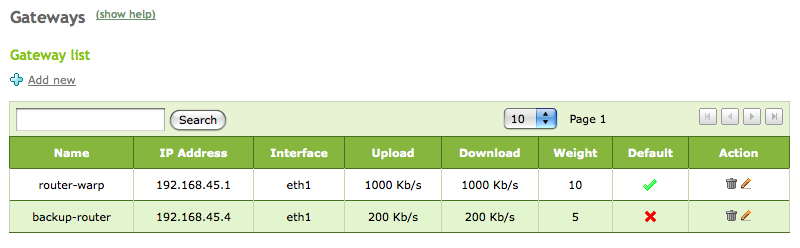
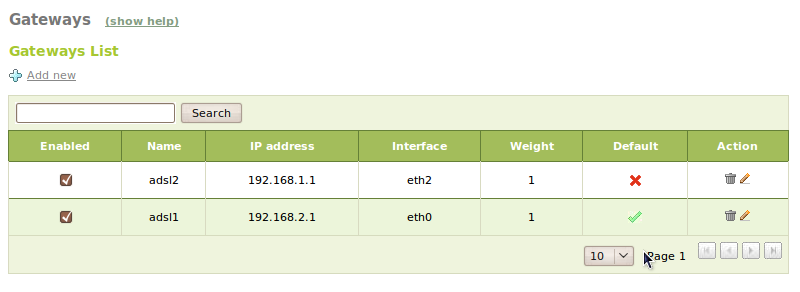
BP: Updating outdated shot and using gateway instead of router and more minor improvements
git-svn-id: http://svn.zentyal.org/zentyal/trunk@17430 866bc4c1-54da-0310-a958-9d5a9a0e8d04

diff --git a/docs/en/user/routing.rst b/docs/en/user/routing.rst
@@ -14,18 +14,18 @@ table with a set of rules to make this decision.
 
 Each of these rules has different fields, although the three most
 important ones are: :guilabel:`destination address`,
-:guilabel:`interface` and :guilabel:`router`. These must be read as
+:guilabel:`interface` and :guilabel:`gateway`. These must be read as
 follows: to reach a certain :guilabel:`destination address`,
-the packet must be directed through a :guilabel:`router`,
+the packet must be directed through a :guilabel:`gateway`,
 which is accessible through a certain :guilabel:`interface`.
 
 When the message arrives, its destination address is compared to the entries in
 the table and is sent through the interface indicated in the rule that matches.
 The best match is considered the most specific rule. For example, if a rule is
-specified indicating that to reach network A (10.15.0.0/16), *router* A must be
+specified indicating that to reach network A (10.15.0.0/16), gateway A must be
 used and another rule indicates that to reach network B (10.15.23.0/24), which
-is a subnet of A, *router* B must be used. If a packet arrives with destination
-10.15.23.23/32, then the operating system will decide to send it to *router B*,
+is a subnet of A, gateway B must be used. If a packet arrives with destination
+10.15.23.23/32, then the operating system will decide to send it to gateway B,
 as there is a more specific rule.
 
 All hosts have at least one routing rule for the *loopback* interface, or local
@@ -245,7 +245,7 @@ To do so:
    Access the eBox interface, enter :menuselection:`Network --> Routes` and
    delete the route created during the previous exercise.
 
-   Enter :menuselection:`Network --> Routers` and select
+   Enter :menuselection:`Network --> Gateways` and select
    :guilabel:`Add new`. Complete with the following data:
 
    :Name:     Default Gateway
@@ -285,63 +285,64 @@ To do so:
 
 .. _multigw-section-ref:
 
-Multirouter rules and load balancing
-====================================
+Multigateway rules and load balancing
+=====================================
 
-**Multirouter rules** are a tool that enables PCs in a network to use several
+**Multigateway rules** are a tool that enables PCs in a network to use several
 *Internet* connections transparently. This is useful if, for example, an office
 has several ADSL connections and the entire bandwidth available is to be used
 without having to worry about distributing the work of the hosts manually
-between both *routers*, so that the load is shared automatically between them.
+between both gateways, so that the load is shared automatically between them.
 
 Basic **load balancing** evenly distributes the packets transferred from
 eBox to the *Internet*. The simplest form of configuration involves establishing
-different **weights** for each *router* so that, if the connections available
+different **weights** for each gateway so that, if the connections available
 have different capacities, they can be used optimally.
 
-*Multirouter* rules allow for certain traffic types to be sent permanently by
-the same *router*, where required. Common examples include sending emails
-through a certain *router* or ensuring that a certain subnet is always routed
-from the Internet through the same *router*.
+Multigateway rules allow for certain traffic types to be sent permanently by
+the same gateway, where required. Common examples include sending emails
+through a certain gateway or ensuring that a certain subnet is always routed
+from the Internet through the same gateway.
 
 eBox uses the **iproute2** and **iptables** tools for the configuration required
-for the *multirouter* function. **iproute2** informs the *kernel* of the
-availability of several *routers*. For *multirouter* rules, **iptables** is used
+for the multigateway function. **iproute2** informs the *kernel* of the
+availability of several gateways. For multigateway rules, **iptables** is used
 to mark the packets of interest. These marks can be used from **iproute2** to
-determine the *router* through which a packet must be sent.
+determine the gateway through which a packet must be sent.
 
 There are several possible problems that must be considered. Firstly, the
 connection concept does not exist in **iproute2**. Therefore, with no other
 type of configuration, the packets belonging to the same connection could
-end up being sent by different *routers*, making communications impossible.
+end up being sent by different gateways, making communications impossible.
 To solve this, **iptables** is used to identify the different connections and
-ensure that all the packets of a connection are sent via the same *router*.
+ensure that all the packets of a connection are sent via the same gateway.
 
 The same applies to any incoming connections established. All response
-packets for a connection must be sent using the same *router* through which
+packets for a connection must be sent using the same gateway through which
 that connection was received.
 
-To establish a *multirouter* configuration with load balancing in eBox, as many
-*routers* as required must be defined in :menuselection:`Network --> Routers`.
-Using the :guilabel:`weight` parameter when configuring a *router*, it is
+To establish a multigateway configuration with load balancing in eBox, as many
+gateways as required must be defined in :menuselection:`Network --> Gateways`.
+Using the :guilabel:`weight` parameter when configuring a gateway, it is
 possible to determine the proportion of packets that each one will send. Where
-two *routers* are available and weights of 5 and 10, respectively, are
-established, 5 of every 15 packets will be sent through the first router,
+two gateways are available and weights of 5 and 10, respectively, are
+established, 5 of every 15 packets will be sent through the first gateway,
 while the the remaining 10 will be sent via the second.
 
 .. image:: images/routing/01-gateways.png
    :scale: 80
    :align: center
 
-*Multirouter* rules and traffic balancing are established in the
-:menuselection:`Network --> Traffic balancing` section. In this section,
+Multigateway rules and traffic balancing are established in the
+:menuselection:`Network --> Balance Traffic` section. In this section,
 it is possible to add rules to send certain packets to a specific
-*router*, depending on the input :guilabel:`interface`, the
+gateway, depending on the input :guilabel:`interface`, the
 :guilabel:`source` (this could be an IP address, an object, eBox or
 any), the :guilabel:`destination` (an IP address or a network
 object), the :guilabel:`service` with which this rule is to be associated and
-via which :guilabel:`routers` the traffic type specified is to be
-directed.
+via which :guilabel:`gateway` the traffic type specified is to be
+directed. In order to enable load balancing, just enable
+:guilabel:`Traffic balancing` checkbox.
 
 .. image:: images/routing/02-gateway-rules.png
    :scale: 80
@@ -350,7 +351,7 @@ directed.
 Practical example D
 -------------------
 
-Configure a *multirouter* scenario with several *routers* with different weights
+Configure a multigateway scenario with several gateways with different weights
 and check that it works using the **traceroute** tool.
 
 To do so:
@@ -358,7 +359,7 @@ To do so:
 #. **Action:**
    In pairs, leave one eBox with the current configuration and add
    a new *gateway* in the other, accessing
-   :menuselection:`Network --> Routers` via the interface and clicking on
+   :menuselection:`Network --> Gateways` via the interface and clicking on
    :guilabel:`Add new`, with the following data:
 
    :Name:         Gateway 2
@@ -387,17 +388,17 @@ To do so:
 
    Effect:
      The result of running **traceroute** shows the
-     different *routers* through which a packet passes to reach its
-     destination. On running it in a host with *multirouter*
-     configuration, the result of the first leaps between *routers*
-     should be different depending on the *router* chosen.
+     different gateways through which a packet passes to reach its
+     destination. On running it in a host with multigateway
+     configuration, the result of the first leaps between gateways
+     should be different depending on the gateway chosen.
 
 WAN Failover
 ============
-
+       
 If you are balancing traffic among two or more gateways, this feature is
 really useful. In a standard scenario without failover, imagine you are
-balancing the traffic between two routers and one of them goes down.
+balancing the traffic between two gateways and one of them goes down.
 Assuming both gateways have the same weight, half of the traffic will keep
 going through the downed gateway, causing connectivity problems to all the
 clients in the network.
